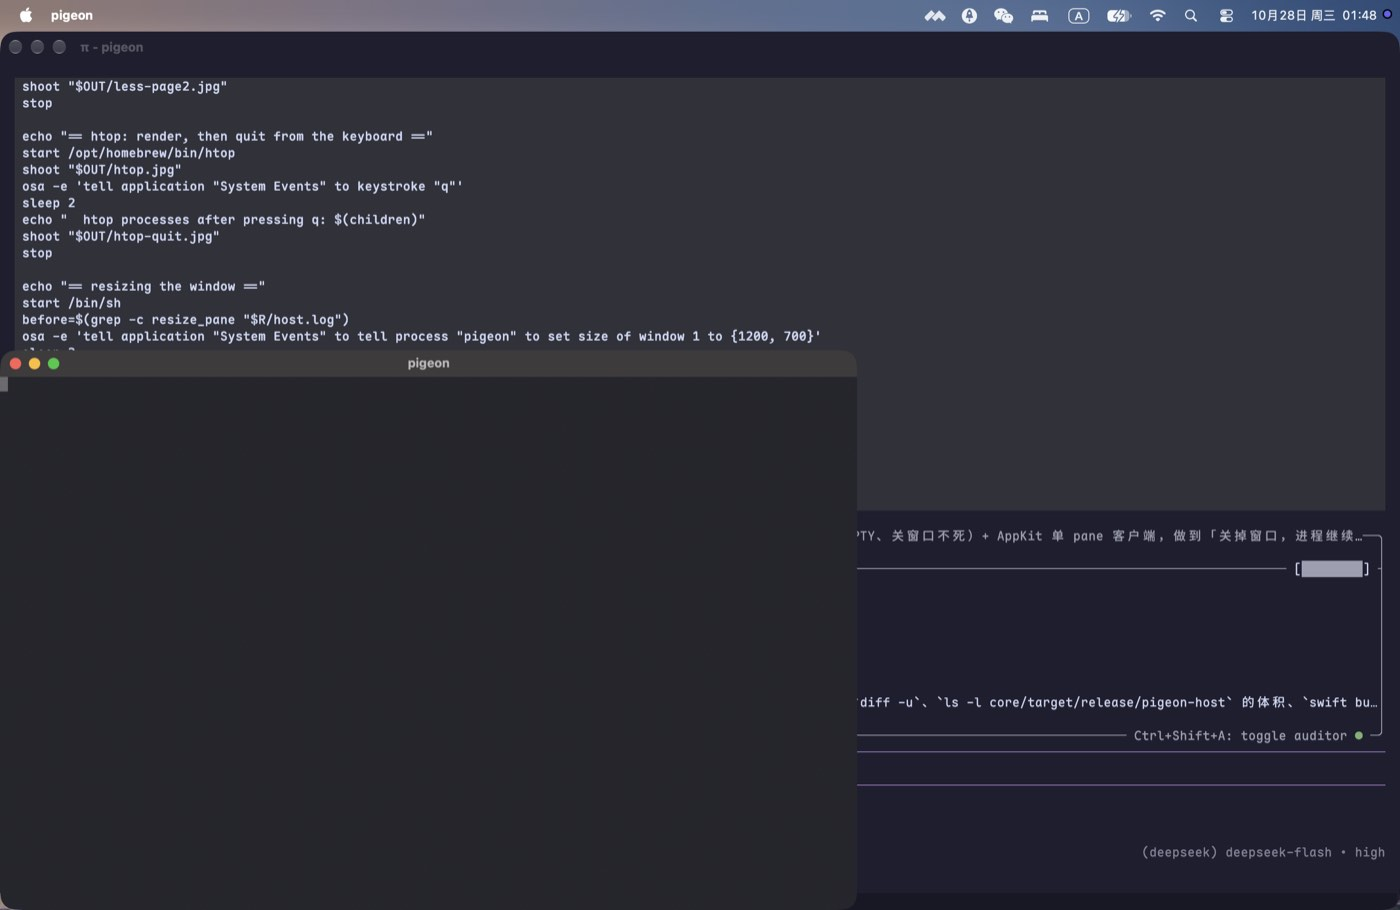
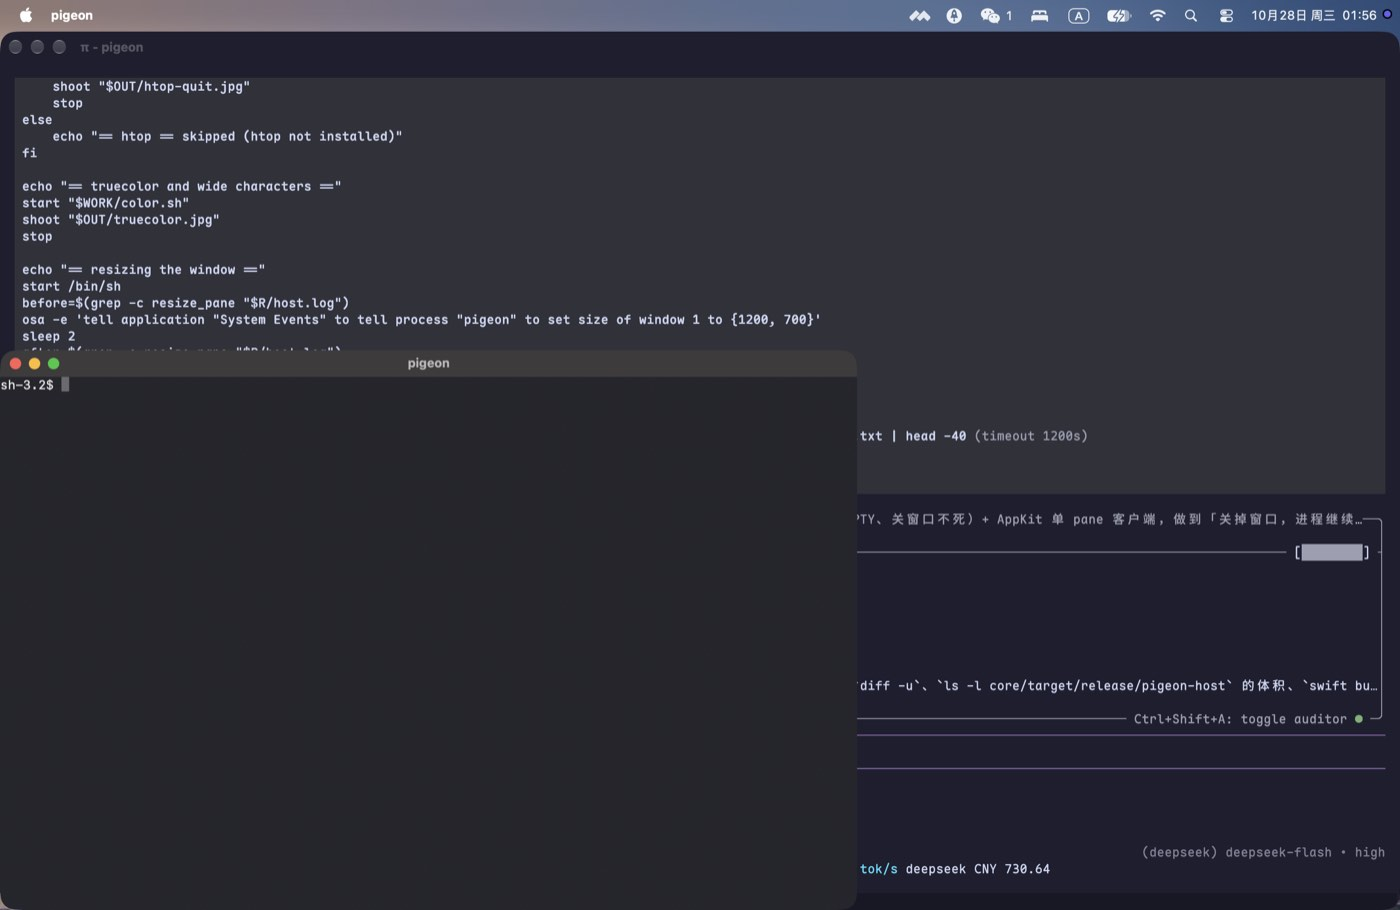
docs: GUI 清单按脚本真实输出重写；htop 退回提示符；§11 CI 行写实

diff --git a/docs/m0-checklist.md b/docs/m0-checklist.md
@@ -46,25 +46,46 @@ swift test                                         # 15 个用例
 | less：首屏 + `(END)` | ![less](images/m0/less.jpg) |
 | 键盘事件：System Events 输入 `echo typed-by-a-human`（系统事件通道，非 App 内部调用） | ![typed](images/m0/typed-shell.jpg) |
 | 键盘事件进 vim（`i` 输入、`Esc`）：备用屏 | ![vim-typed](images/m0/vim-typed.jpg) |
-| 关窗→重开：vim 的备用屏与内容原样回来 | ![alt-1](images/m0/alt-1.jpg) → ![alt-2](images/m0/alt-2.jpg) |
+| 关窗→重开：vim 的备用屏与内容原样回来（重开后脚本再敲一个 `!`，所以两张图 md5 不同） | ![alt-1](images/m0/alt-1.jpg) → ![alt-2](images/m0/alt-2.jpg) |
 | 键盘事件给 less 翻页（空格） | ![less-page2](images/m0/less-page2.jpg) |
 | 窗口改到 1200×700 后重绘（System Events 设置窗口尺寸） | ![resize](images/m0/window-resized.jpg) |
 | htop：CPU/内存面板 + 进程列表 | ![htop](images/m0/htop.jpg) |
-| htop：按 `q` 退出后回到提示符（脚本打印 `htop processes after pressing q: 0`） | ![htop-quit](images/m0/htop-quit.jpg) |
+| htop：按 `q` 退出后回到 `sh-3.2$` 提示符（pane 是 `htop` 然后 `exec /bin/sh`；脚本打印 `htop processes after pressing q: 1`，那个 1 就是 shell） | ![htop-quit](images/m0/htop-quit.jpg) |
 | 真彩色 + 调色板反显 + 中文宽字符（width 修复后：CJK 不再被拉开） | ![truecolor](images/m0/truecolor.jpg) |
 
-一键复现（`tools/m0-gui-check.sh`；需要给运行它的终端开 Accessibility 权限）：
+一键复现（`tools/m0-gui-check.sh`）：
 
 ```sh
+cargo build --release --bin pigeon-host && cargo build && swift build   # 先构建
 ./tools/m0-gui-check.sh
-# == typing in the shell ==
-#   shell still alive after the window closed: 1
-# == typing inside vim (alternate screen) ==
-#   vim still running after the window closed: 1
-# == paging less with the keyboard ==
-# == resizing the window ==
-#   resize_pane before=1 after=2
 ```
+
+真实输出（macOS，htop 3.5.3；没装 htop 时该段自动跳过）：
+
+```text
+== prompt ==
+  pane processes after the window closed: 1
+== typing in the shell ==
+  pane processes after the window closed: 1
+== vim first screen ==
+  pane processes after the window closed: 1
+== vim typing, close, reopen ==
+  vim still running after the window closed: 1
+  pane processes after the window closed: 1
+== less: first page and one page down ==
+  pane processes after the window closed: 1
+== htop: render, quit with q, back to the prompt ==
+  htop processes after pressing q: 1
+  pane processes after the window closed: 1
+== truecolor and wide characters ==
+  pane processes after the window closed: 1
+== resizing the window ==
+  resize_pane before=1 after=2
+  pane processes after the window closed: 1
+```
+
+`resize_pane before=1 after=2` 是窗口改成 1200×700 后又发了一次 resize；客户端网格从
+111×36 变成 149×36（宿主 debug 日志可见）。
 
 脚本自己生成 `demo.txt`、`long.txt`、`vim.sh`、`less.sh`（都在临时目录里，跑完删除），
 所以新克隆的仓库不需要任何 `/tmp` 预置文件。

diff --git a/docs/plan.md b/docs/plan.md
@@ -278,7 +278,7 @@ M0 落地后仍在的洞。
 | Swift 客户端不协商 `delta` | 只收 `snapshot`（协议 §5 允许）；每次变化一份全屏 | M1 做性能时开启增量 |
 | IME 候选窗未实现 | 走 AppKit 默认 `keyDown`；拼音候选定位于 M6 | M6 |
 | `zstd` 能力只定义了帧内 tag | 阈值、何时启用未定 | M4 远端实测后 |
-| CI 没有可移植性静态检查 | `ci.yml` 只做 fmt / clippy / test / 体积 / 头文件 diff / swift build+test | 加 `unsafe`/平台 crate 的 grep 检查时 |
+| CI 没有可移植性静态检查 | 现在有：fmt / clippy / test / `! rg "use (tokio|portable_pty)"` / `--lib --no-default-features` 构建 / 体积上限 / 头文件 diff / swift build+test；仍缺 `unsafe` 与平台专属 crate 的 grep | 加 `unsafe`/`cfg(target_os)` 检查时 |
 | PTY 走 `portable-pty` 而不是原始 fd | 为了让 `core/src`（除 `ffi/`）零 `unsafe`；拿到的是已有 fd 的 reader/writer 句柄 | 需要原始 fd 做特殊 ioctl 时 |
 | `swift test` 依赖完整 Xcode | `xcode-select` 指向 CommandLineTools 时 XCTest 缺失，需 `DEVELOPER_DIR` | 换成 swift-testing 或写进 README |
 
